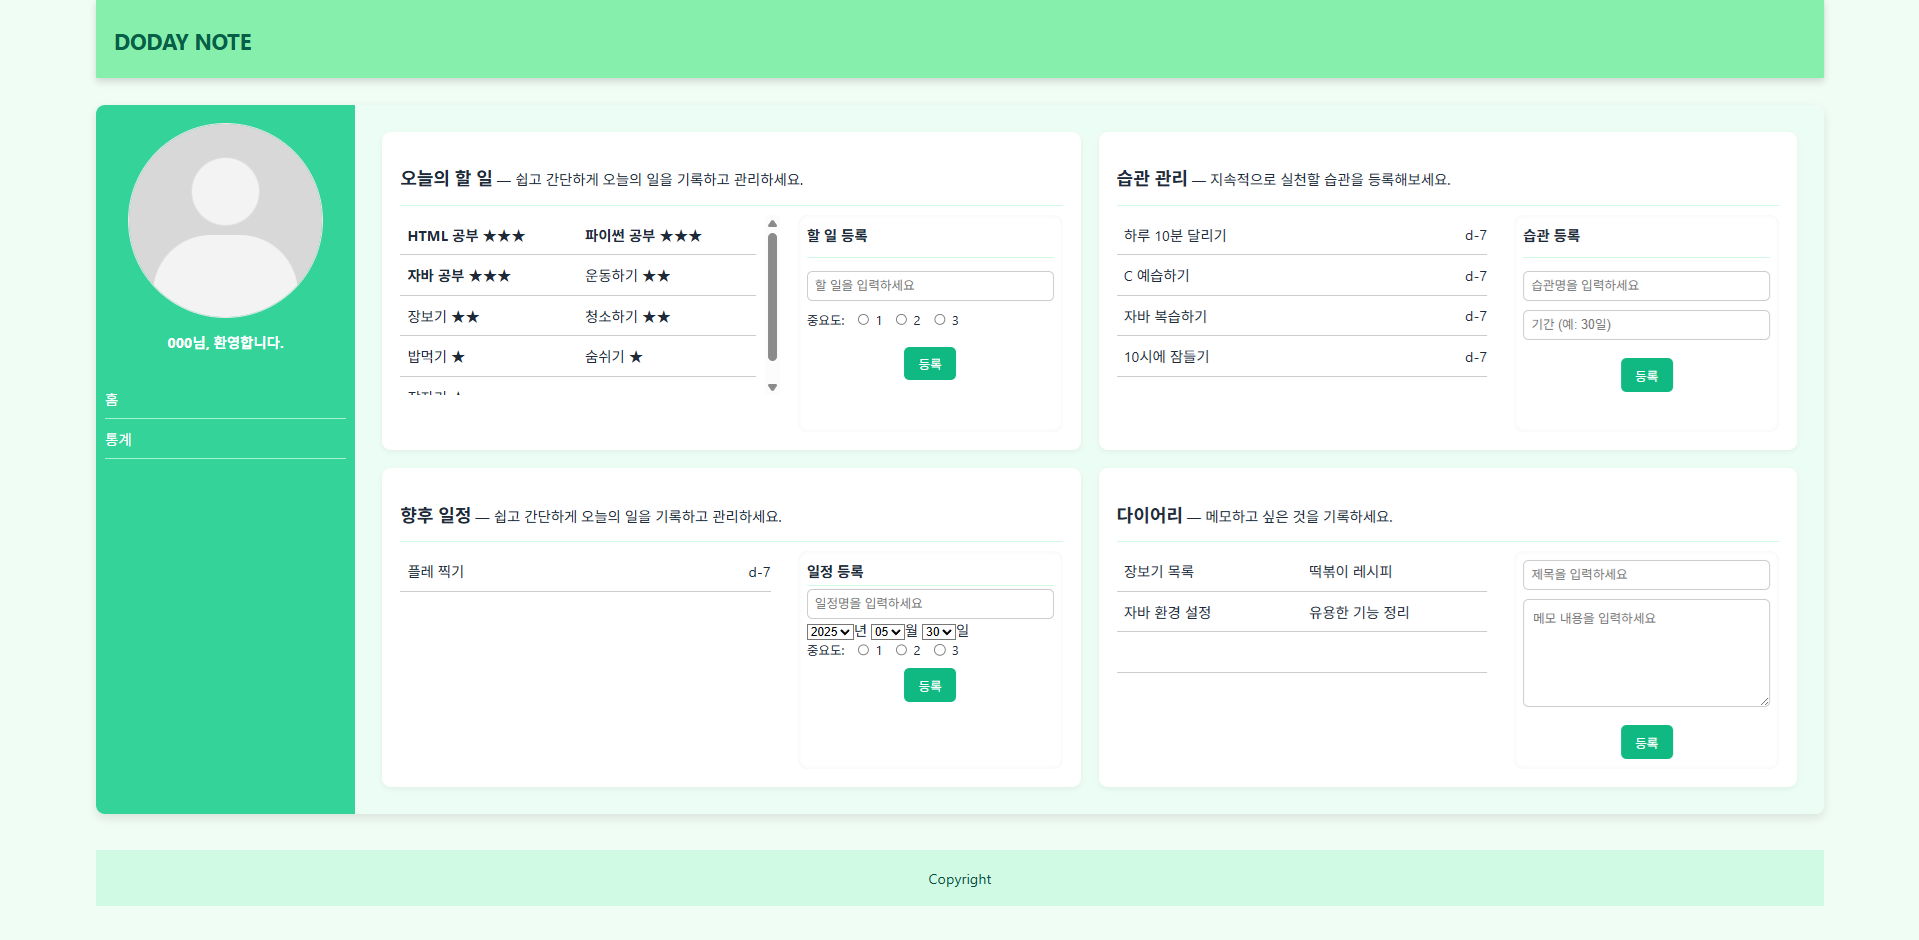
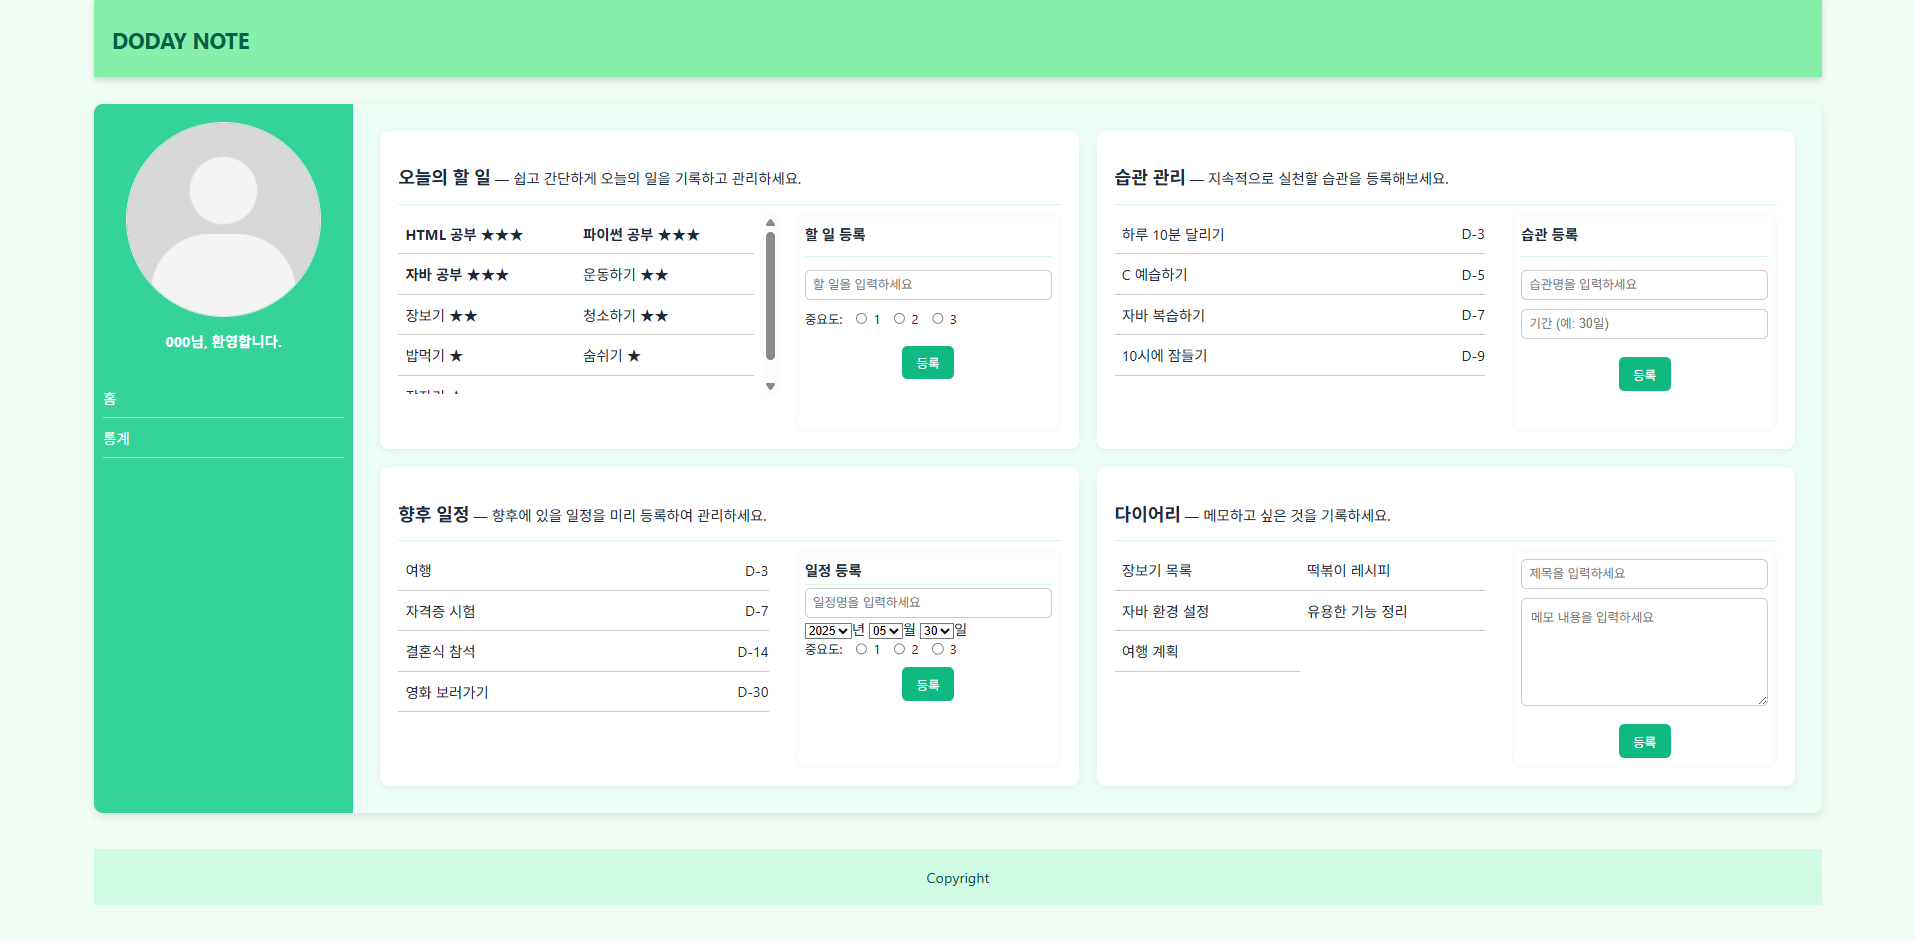
불필요한 이미지 삭제 및 이미지 수정

diff --git a/main.html b/main.html
@@ -77,10 +77,10 @@
           <div class="habit_body">
             <div class="habit_list">
               <ol>
-                <li><span class="habit_list_title">하루 10분 달리기</span><span class="habit_list_date">d-7</span></li>
-                <li><span class="habit_list_title">C 예습하기</span><span class="habit_list_date">d-7</span></li>
-                <li><span class="habit_list_title">자바 복습하기</span><span class="habit_list_date">d-7</span></li>
-                <li><span class="habit_list_title">10시에 잠들기</span><span class="habit_list_date">d-7</span></li>
+                <li><span class="habit_list_title">하루 10분 달리기</span><span class="habit_list_date">D-3</span></li>
+                <li><span class="habit_list_title">C 예습하기</span><span class="habit_list_date">D-5</span></li>
+                <li><span class="habit_list_title">자바 복습하기</span><span class="habit_list_date">D-7</span></li>
+                <li><span class="habit_list_title">10시에 잠들기</span><span class="habit_list_date">D-9</span></li>
               </ol>
             </div>
             <div class="habit_list_input">
@@ -100,13 +100,16 @@
         <!-- 향후 일정 -->
         <div class="main_week">
           <div class="week_title">
-            <p><span style="font-size: 1.25em; font-weight: bold;">향후 일정</span> — 쉽고 간단하게 오늘의 일을 기록하고 관리하세요.</p>
+            <p><span style="font-size: 1.25em; font-weight: bold;">향후 일정</span> — 향후에 있을 일정을 미리 등록하여 관리하세요.</p>
             <hr />
           </div>
           <div class="week_body">
             <div class="week_list">
               <ol>
-                <li><span class="week_list_title">플레 찍기</span><span class="week_list_date">d-7</span></li>
+                <li><span class="week_list_title">여행</span><span class="week_list_date">D-3</span></li>
+                <li><span class="week_list_title">자격증 시험</span><span class="week_list_date">D-7</span></li>
+                <li><span class="week_list_title">결혼식 참석</span><span class="week_list_date">D-14</span></li>
+                <li><span class="week_list_title">영화 보러가기</span><span class="week_list_date">D-30</span></li>
               </ol>
             </div>
             <div class="week_list_input">
@@ -144,8 +147,7 @@
                 <li>떡볶이 레시피</li>
                 <li>자바 환경 설정</li>
                 <li>유용한 기능 정리</li>
-                <li></li>
-                <li></li>
+                <li>여행 계획</li>
               </ol>
             </div>
             <div class="diary_list_input">

diff --git a/ranking.html b/ranking.html
@@ -47,9 +47,9 @@
                         <div class="ranking_info">
                             <h3>일주일 동안 당신은...</h3>
                             <ul class="ranking_summary">
-                                <li><strong>00건</strong>의 할 일을 등록했습니다.</li>
-                                <li><strong>0%</strong>의 실천률을 기록했습니다.</li>
-                                <li><strong>5월 5일</strong>에 가장 바빴습니다.</li>
+                                <li><strong>12건</strong>의 할 일을 등록했습니다.</li>
+                                <li><strong>34%</strong>의 실천률을 기록했습니다.</li>
+                                <li><strong>5월 6일</strong>에 가장 바빴습니다.</li>
                             </ul>
                         </div>
 
@@ -67,8 +67,8 @@
                     <div class="ranking_info">
                         <ul class="ranking_summary">
                             <li><strong>총 123건</strong>의 할 일을 등록했습니다.</li>
-                            <li><strong>하루 평균 4.1건</strong>을 등록했습니다.</li>
-                            <li><strong>하루 평균 68%</strong>의 완료율을 보였습니다.</li>
+                            <li><strong>하루 평균 4.5건</strong>을 등록했습니다.</li>
+                            <li><strong>하루 평균 67%</strong>의 완료율을 보였습니다.</li>
                         </ul>
                     </div>
                 </div>
@@ -78,8 +78,8 @@
                     <hr>
                     <div class="ranking_info">
                         <ul class="ranking_summary">
-                            <li><strong>역대 8건</strong>의 습관을 등록했습니다.</li>
-                            <li><strong>평균 3.6회</strong>의 실천을 기록했습니다.</li>
+                            <li><strong>역대 1234건</strong>의 습관을 등록했습니다.</li>
+                            <li><strong>평균 56%</strong>의 실천률을 기록했습니다.</li>
                         </ul>
                     </div>
                 </div>
